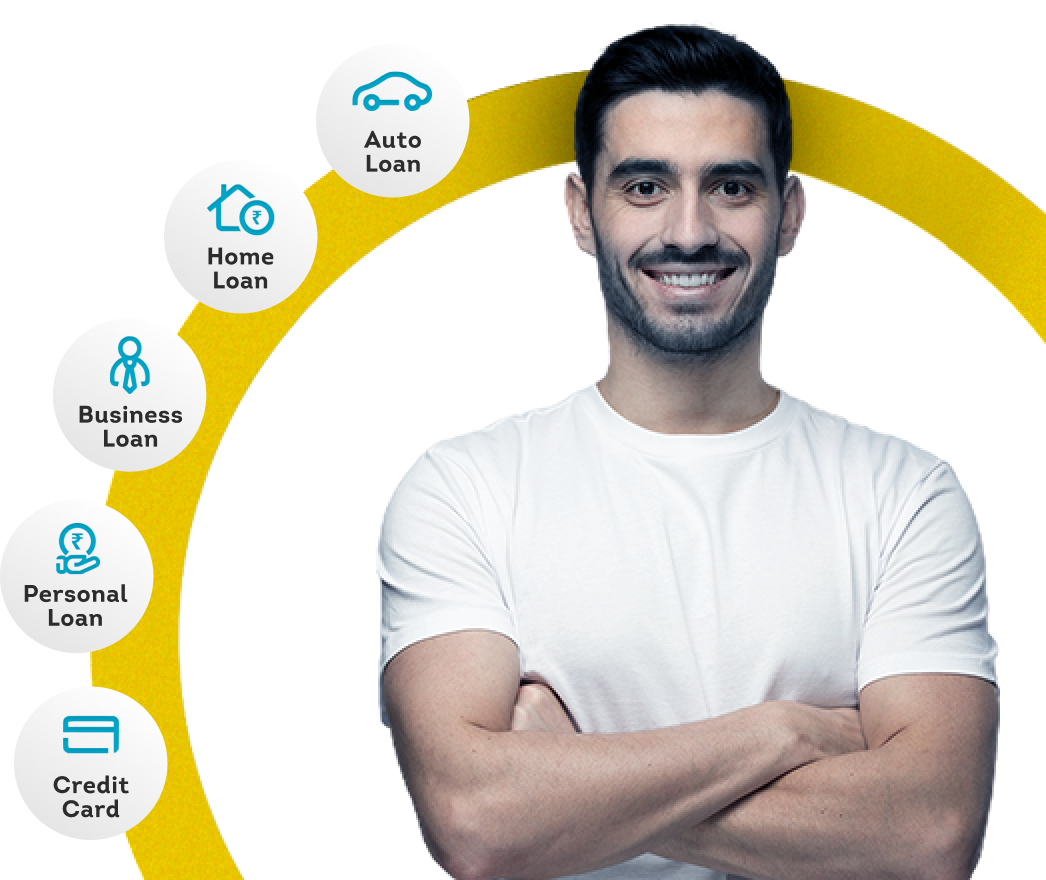
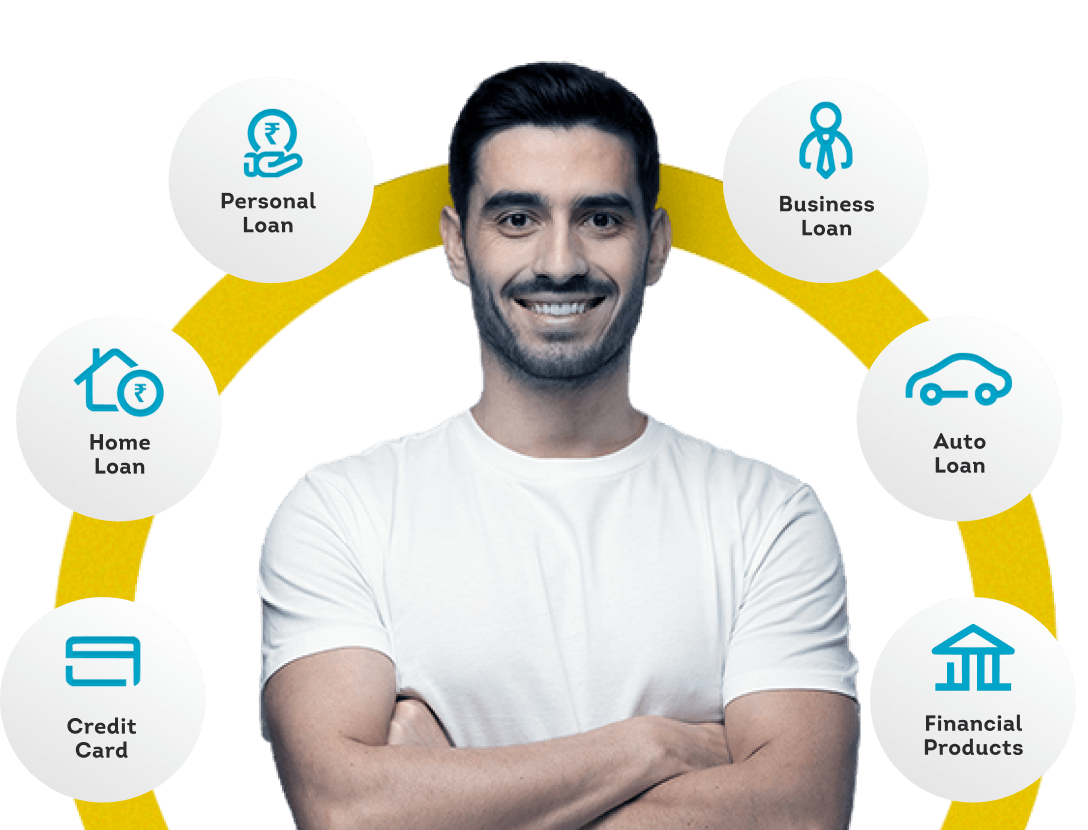
new ui change loans page

diff --git a/loans/scss/custom.scss b/loans/scss/custom.scss
@@ -205,7 +205,6 @@ h6 {
         }
     }
 }
-
 .pt-4 {
     @media screen and (max-width: 992px) {
         padding-top: 40px !important;
@@ -229,7 +228,11 @@ h6 {
 .bg-yellow {
     background-color: #fcd800;
 }
-
+@media (min-width: 1200px) {
+    .container {
+        width: 1200px;
+    }
+}
 .section-title {
     font-family: "Intro", Bold;
     font-weight: bold;
@@ -370,6 +373,10 @@ header {
 }
 
 .banner {
+    .row {
+        display: flex;
+        align-items: center;
+    }
     @media screen and (max-width: 992px) {
         background: radial-gradient(136.5% 50% at 50% 50%, #1a95b9 0%, #39a1cb 100%);
         text-align: center;
@@ -379,66 +386,25 @@ header {
         justify-content: center;
         .button-orange {
             margin: auto;
-
             margin-top: 30px;
         }
     }
-    @media screen and (max-width: 600px) {
-    }
 
-    @media screen and (max-width: 992px) {
-    }
     @media screen and (min-width: 992px) {
-        // background-image: url(../img/bannerbg.png);
+        background-image: url(../img/blubg.png);
+        background-size: 100%;
     }
     position: relative;
-    @media screen and (min-width: 992px) {
-    }
-    .image-block {
-        @media screen and (max-width: 992px) {
-            margin: auto;
-            width: 98%;
-            margin-left: 1.5%;
-            img {
-                margin: auto;
-            }
-        }
-
-        margin-left: auto;
-    }
+.image-block{
+    max-width: 543px;
+    margin-left: auto;
+}
     .image-block-mobile {
         margin: -30px 0;
     }
     .banner-text-block {
         @media screen and (max-width: 992px) {
             padding: 30px 20px 30px 20px;
-        }
-        @media screen and (min-width: 992px) {
-            left: 50px;
-            position: absolute;
-            top: 30px;
-
-            bottom: 0;
-            margin: auto;
-            z-index: 99999;
-        }
-        @media screen and (min-width: 1200px) {
-            .banner .banner-text-block {
-                left: 150px;
-                position: absolute;
-                top: 70px;
-                bottom: 0;
-                margin: auto;
-                z-index: 99999;
-            }
-        }
-        @media screen and (min-width: 1300px) {
-            left: 207px;
-            position: absolute;
-            top: 100px;
-            bottom: 0;
-            margin: auto;
-            z-index: 99999;
         }
         h2 {
             font-family: "Intro", Bold;
@@ -1801,16 +1767,13 @@ section.cibil-subscription {
             margin-bottom: 55px;
         }
     }
-    .v4-button.dhide{
-      @media screen and (min-width: 992px) {
-        display: none !important;
-      }
-      
-      
+    .v4-button.dhide {
+        @media screen and (min-width: 992px) {
+            display: none !important;
+        }
     }
-    .p-medium-bold{
+    .p-medium-bold {
         display: none !important;
-
     }
     // @media screen and (max-width: 992px) {
     //     .mobile-score-plan-desc-v4{
@@ -1824,8 +1787,7 @@ section.cibil-subscription {
 
     //     }
     //   }
-      
- 
+
     .v4-padding-bottom-0 {
         padding-bottom: 0;
     }
@@ -1873,22 +1835,17 @@ section.cibil-subscription {
         }
     }
 
-  
-    .bg-small-white{
+    .bg-small-white {
         @media screen and (max-width: 992px) {
-            background:white;
+            background: white;
         }
-        
-        
     }
-    
 }
 @media screen and (max-width: 992px) {
-    .mb-sm-30{
-        margin-bottom: 30px !important;    
+    .mb-sm-30 {
+        margin-bottom: 30px !important;
     }
 }
-
 
 .goals {
     background-color: #f9f9f9;
@@ -2242,7 +2199,11 @@ section.cibil-subscription {
     width: 100%;
     overflow: hidden;
     background-color: #f9f9f9;
-    padding: 30px 0;
+    padding: 5px 0;
+    @media screen and (min-width: 992px) {
+        padding: 15px 0;
+    }
+
     position: relative;
     &::after {
         content: "";
@@ -2288,9 +2249,11 @@ section.cibil-subscription {
     background-size: cover;
     @media screen and (min-width: 992px) {
         background-size: cover;
+        background-position: -100px;
     }
 
     animation: slide 50s linear infinite;
+    
 }
 .img-inside {
 }

diff --git a/loans/index.html b/loans/index.html
@@ -23,30 +23,43 @@
 
         <header>
             <div class="container">
-                <nav>
-                    <img src="./img/logo.png" alt="" class="logo">
-                    <a href="https://myscore.cibil.com/CreditView/login.page?enterprise=CIBIL" class="btn-outline">Login</a>
-                </nav>
+              <div class="row">
+                  <div class="col-12">
+                    <nav>
+                        <img src="./img/logo.png" alt="" class="logo">
+                        <a href="https://myscore.cibil.com/CreditView/login.page?enterprise=CIBIL" class="btn-outline">Login</a>
+                    </nav>
+
+                  </div>
+              </div>
             </div>
         </header>
         <section class="banner">
-            <img src="./img/bannerbg.jpg" class="d-block img-fluid mhide" alt="">
 
             <!-- <img src="./img/mobile-image.png" class="d-block img-fluid mobile-image dhide" alt=""> -->
-            <div class="banner-text-block">
-                <div class="v1-text">
-                    <h2>Your loan, your choice on <br class="d-none d-md-block">CIBIL Marketplace.</h2>
-                    <h4>
-                        Get personalized loan offers based on your latest <br class="d-none d-md-block"> CIBIL Score at just <span class="bg-yellow text-black">
+            <div class="container">
+                <div class="row">
+                    <div class="col-md-6 pl-0">
+                        <div class="banner-text-block">
+                            <div class="v1-text">
+                                <h2>Your loan, your choice on <br class="d-none d-md-block">CIBIL Marketplace.</h2>
+                                <h4>
+                                    Get personalized loan offers based on your <br class="d-none d-md-block">  latest CIBIL Score at just <span class="bg-yellow text-black">
                             ₹550 for <span class="v2-only">1 month</span><span class="v3-only">30 days</span>.
-                        </span>
-                    </h4>
-                </div>
+                                    </span>
+                                </h4>
+                            </div>
 
-                <a href="https://myscore.cibil.com/CreditView/enrollShort.page?enterprise=CIBIL&amp;offer=1M550RM" class="button-orange" style="max-width: 197px;">Get Started</a>
-            </div>
-            <div class="image-block">
-                <img src="./img/mobile-image.png" class="d-block img-fluid mobile-image dhide" alt="">
+                            <a href="https://myscore.cibil.com/CreditView/enrollShort.page?enterprise=CIBIL&amp;offer=1M550RM" class="button-orange" style="max-width: 197px;">Get Started</a>
+                        </div>
+
+                    </div>
+                    <div class="col-md-6">
+                        <div class="image-block">
+                            <img src="./img/banner.png" class="d-block img-fluid mobile-image" alt="">
+                        </div>
+                    </div>
+                </div>
             </div>
         </section>
 
@@ -687,7 +700,7 @@
                 </div>
             </div>
         </section>
-        <hr class="d-block d-md-none" style="border:0;border-top: 1px solid #DDDDDD;width: 90%;margin: auto;">
+        <!-- <hr class="d-block d-md-none" style="border:0;border-top: 1px solid #DDDDDD;width: 90%;margin: auto;"> -->
 
         <section class="cibil-creditcard cibil-score bg-transparent v4-padding-bottom-0">
             <div class="container">

diff --git a/loans/css/custom.css b/loans/css/custom.css
@@ -230,6 +230,11 @@ h6 {
   background-color: #fcd800;
 }
 
+@media (min-width: 1200px) {
+  .container {
+    width: 1200px;
+  }
+}
 .section-title {
   font-family: "Intro", Bold;
   font-weight: bold;
@@ -371,6 +376,10 @@ header nav .logo {
 .banner {
   position: relative;
 }
+.banner .row {
+  display: flex;
+  align-items: center;
+}
 @media screen and (max-width: 992px) {
   .banner {
     background: radial-gradient(136.5% 50% at 50% 50%, #1a95b9 0%, #39a1cb 100%);
@@ -385,18 +394,15 @@ header nav .logo {
     margin-top: 30px;
   }
 }
-.banner .image-block {
-  margin-left: auto;
+@media screen and (min-width: 992px) {
+  .banner {
+    background-image: url(../img/blubg.png);
+    background-size: 100%;
+  }
 }
-@media screen and (max-width: 992px) {
-  .banner .image-block {
-    margin: auto;
-    width: 98%;
-    margin-left: 1.5%;
-  }
-  .banner .image-block img {
-    margin: auto;
-  }
+.banner .image-block {
+  max-width: 543px;
+  margin-left: auto;
 }
 .banner .image-block-mobile {
   margin: -30px 0;
@@ -404,36 +410,6 @@ header nav .logo {
 @media screen and (max-width: 992px) {
   .banner .banner-text-block {
     padding: 30px 20px 30px 20px;
-  }
-}
-@media screen and (min-width: 992px) {
-  .banner .banner-text-block {
-    left: 50px;
-    position: absolute;
-    top: 30px;
-    bottom: 0;
-    margin: auto;
-    z-index: 99999;
-  }
-}
-@media screen and (min-width: 1200px) {
-  .banner .banner-text-block .banner .banner-text-block {
-    left: 150px;
-    position: absolute;
-    top: 70px;
-    bottom: 0;
-    margin: auto;
-    z-index: 99999;
-  }
-}
-@media screen and (min-width: 1300px) {
-  .banner .banner-text-block {
-    left: 207px;
-    position: absolute;
-    top: 100px;
-    bottom: 0;
-    margin: auto;
-    z-index: 99999;
   }
 }
 .banner .banner-text-block h2 {
@@ -2217,8 +2193,13 @@ section.cibil-subscription .text-p p {
   width: 100%;
   overflow: hidden;
   background-color: #f9f9f9;
-  padding: 30px 0;
+  padding: 5px 0;
   position: relative;
+}
+@media screen and (min-width: 992px) {
+  .slider {
+    padding: 15px 0;
+  }
 }
 .slider::after {
   content: "";
@@ -2268,6 +2249,7 @@ section.cibil-subscription .text-p p {
 @media screen and (min-width: 992px) {
   .slider .slider-row {
     background-size: cover;
+    background-position: -100px;
   }
 }
 
